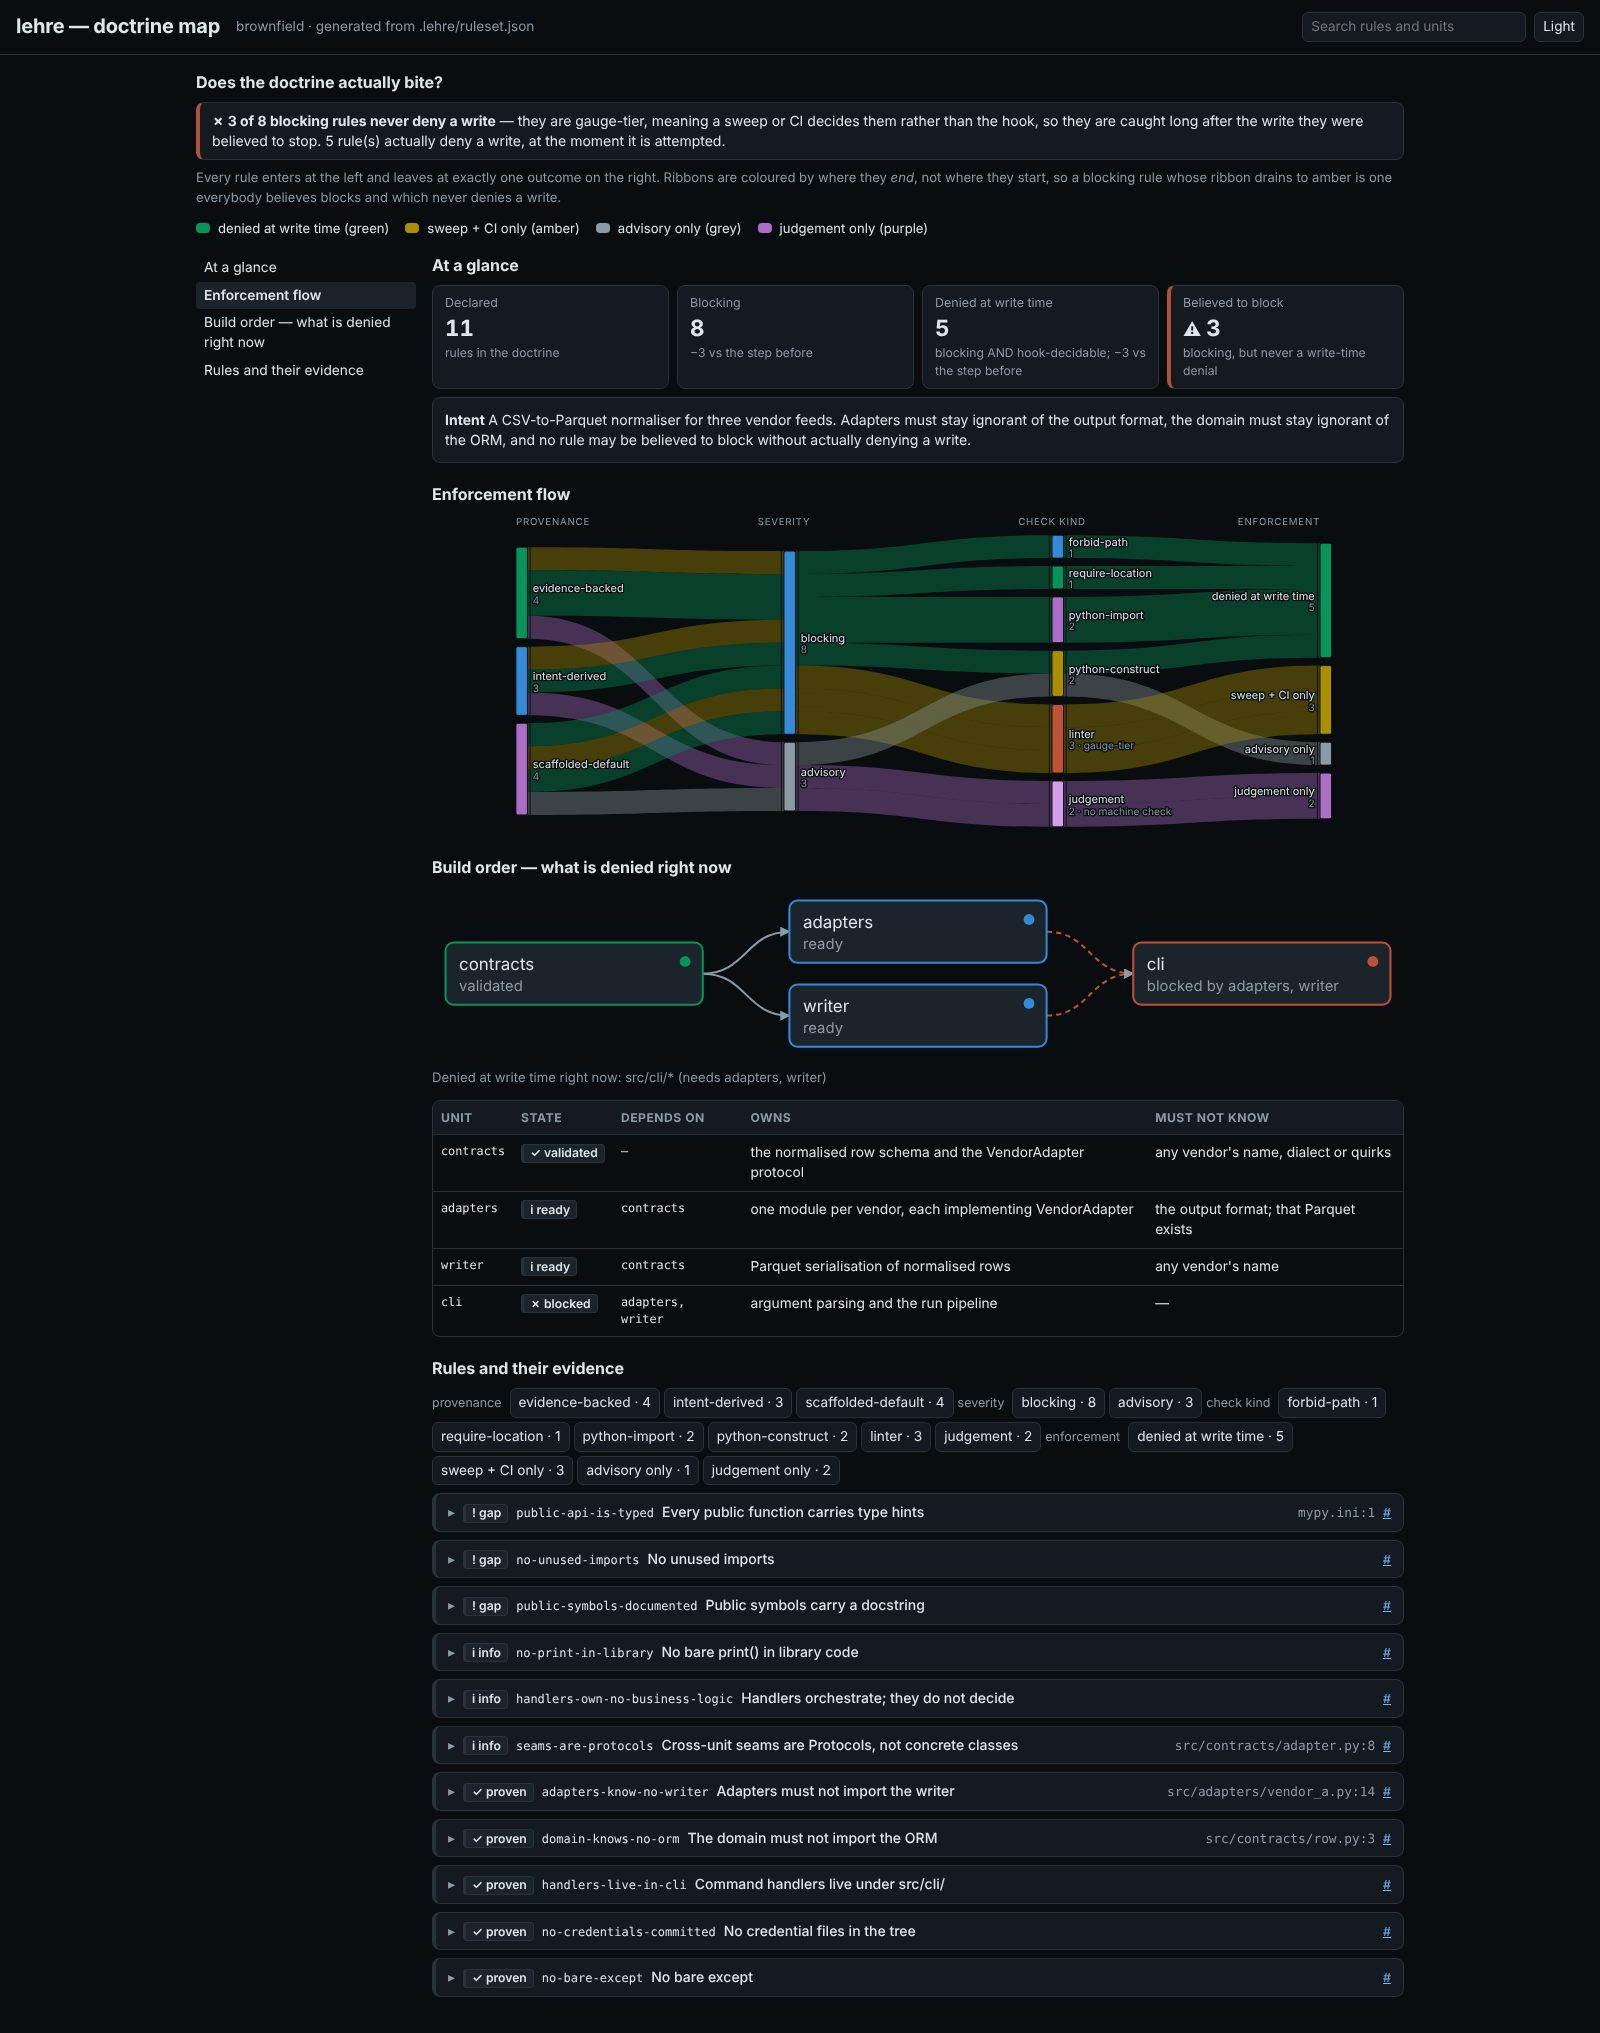
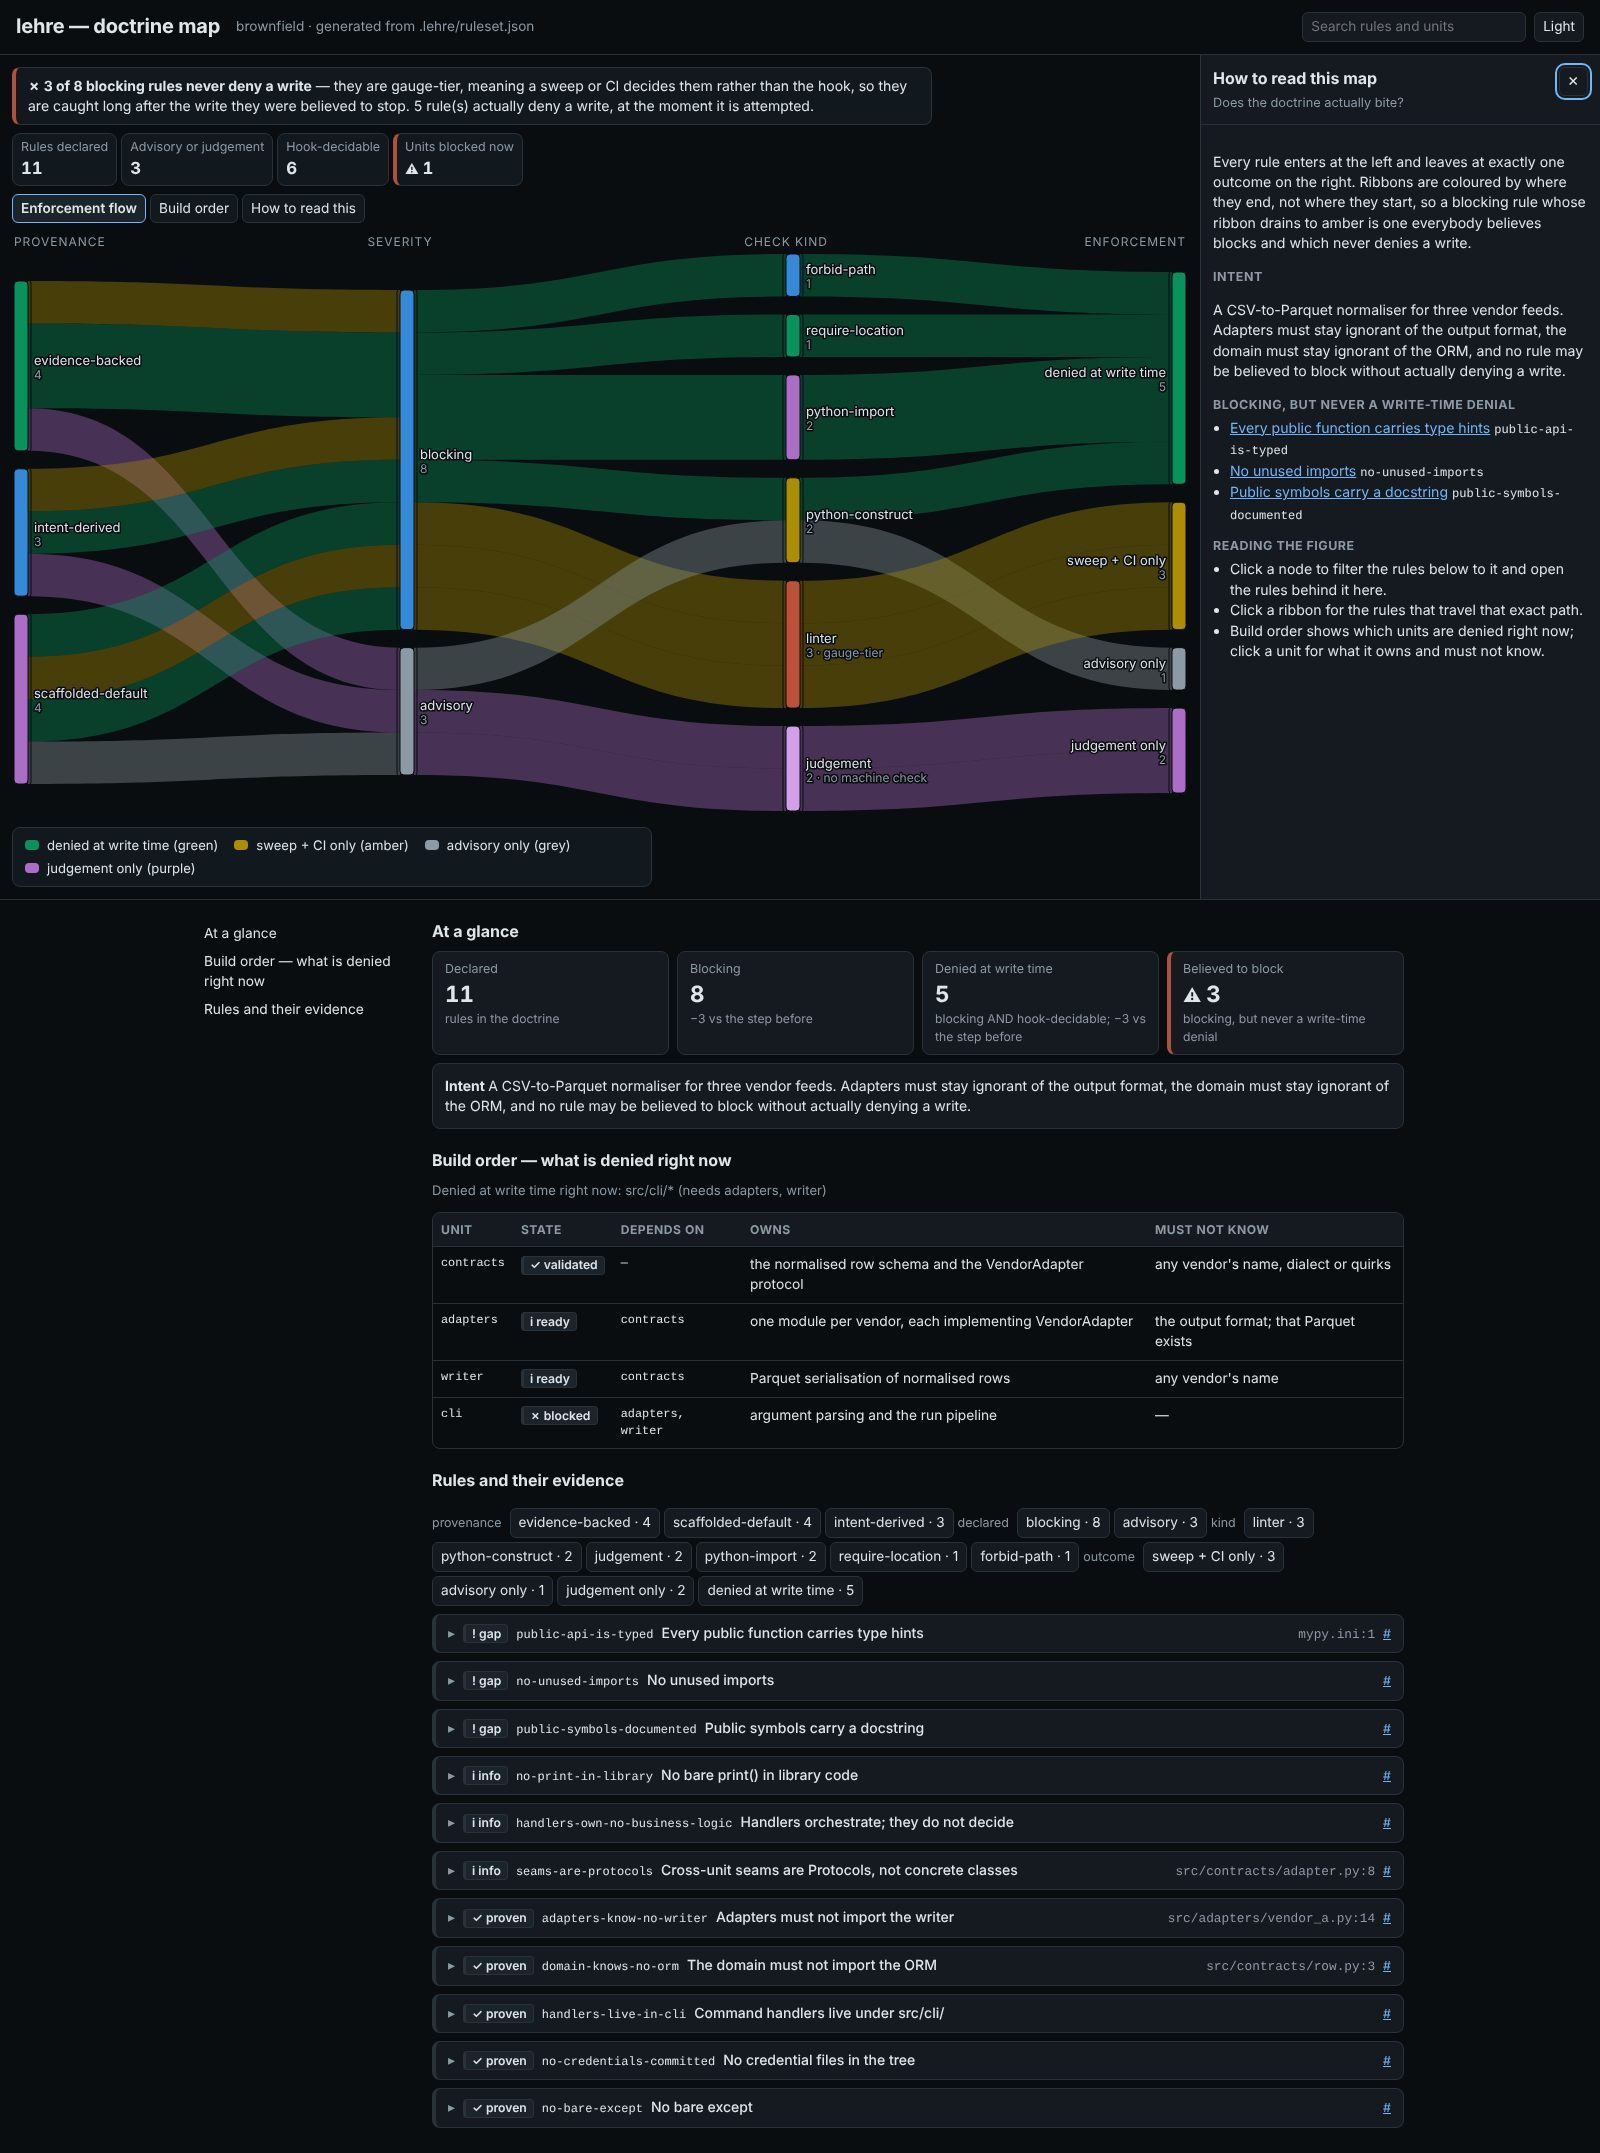
wip(viewers): figure-first (R9) migration in progress
Claude-Session: https://claude.ai/code/session_01T7ct7CVxAQqp3tqKbKtmYX

diff --git a/plugins/arbeitsplan/assets/run-viewer.html b/plugins/arbeitsplan/assets/run-viewer.html
@@ -33,7 +33,7 @@
   .mx .rowbg { fill: var(--rk-panel); stroke: var(--rk-border); stroke-width: 1; }
   .mx .row { cursor: pointer; }
   .mx .row:hover .rowbg { stroke: var(--rk-muted); }
-  .mx .row.landed .rowbg { stroke: var(--rk-ok); stroke-width: 3; }
+  .mx .row.landed .rowbg { stroke: var(--rk-ok); stroke-width: 3; fill: color-mix(in srgb, var(--rk-ok) 9%, var(--rk-panel)); }
   .mx .row.sel .rowbg { stroke: var(--rk-focus); stroke-width: 3; }
   .mx .row:focus { outline: none; }
   .mx .row:focus-visible .rowbg { stroke: var(--rk-focus); stroke-width: 3; }
@@ -323,7 +323,7 @@
         cg.addEventListener("mouseenter", tip); cg.addEventListener("mousemove", tip);
       });
       const ck = checksOf(x);
-      mk("text", { x: tx + 8, y: y + 24, class: "word g-" + (ck.ok === null ? "flat" : ck.ok ? "ok" : "bad") }, g, (ck.ok === null ? "–" : ck.ok ? "✓" : "✗") + " " + ck.text.split(" ")[0]);
+      mk("text", { x: tx + 8, y: y + 24, class: "word g-" + (ck.ok === null ? "flat" : ck.ok ? "ok" : "bad") }, g, ck.ok === null ? "– none" : (ck.ok ? "✓ " : "✗ ") + ck.text.split(" ")[0]);
       mk("text", { x: tx + 8, y: y + 44, class: "ev" }, g, ck.ok === null ? "no checks ran" : ck.text.replace(/^\S+ /, ""));
       const oos = (x.outOfScopeWrites || []).length;
       mk("text", { x: tx + TW + GAP + 8, y: y + 24, class: "word" }, g, String(x.filesTouched) + (x.filesTouched === 1 ? " file" : " files"));

diff --git a/plugins/zirkel/assets/branch-comparison-viewer.html b/plugins/zirkel/assets/branch-comparison-viewer.html
@@ -25,7 +25,6 @@
   .rk-figure .branch { cursor: pointer; }
   .rk-figure .branch .hit { rx: var(--radius-panel); }
   .rk-figure .branch rect { rx: var(--radius-sm); }
-  .rk-figure .branch .hit { rx: var(--radius-panel); }
   .rk-figure .branch:focus { outline: none; }
   .rk-figure .branch:focus-visible .hit { stroke: var(--rk-focus); stroke-width: 2; }
   .row { display: grid; grid-template-columns: minmax(0, 1fr) 72px; gap: var(--space-4); align-items: start; }
@@ -45,7 +44,7 @@
   .row .why dd { margin: 0; overflow-wrap: anywhere; }
   .rk-drawer-body p { margin: var(--space-1) 0; }
   .rk-drawer-body .scores { display: grid; grid-template-columns: max-content 1fr max-content; gap: var(--space-1) var(--space-3); align-items: center; margin: var(--space-1) 0; }
-  .rk-drawer-body .scores .bar { height: 10px; border-radius: 2px; }
+  .rk-drawer-body .scores .bar { height: 10px; border-radius: var(--radius-sm); }
   .rk-drawer-body .scores .bar.feas { background: var(--rk-ok); }
   .rk-drawer-body .scores .bar.imp { background: var(--rk-link); }
   .rk-drawer-body .scores .bar.risk { background: var(--rk-bad); }

diff --git a/plugins/zeugnis/assets/burndown-viewer.html b/plugins/zeugnis/assets/burndown-viewer.html
@@ -650,6 +650,9 @@
     const t = document.getElementById(decodeURIComponent(location.hash.slice(1)));
     if (t && t.tagName === "DETAILS") t.open = true;
     if (t && !/^module-/.test(t.id)) t.scrollIntoView();
+    // The browser scrolls a #module-… anchor to its row below the stage on load; the module is
+    // already selected in the drawer, so put the figure back on screen.
+    if (t && /^module-/.test(t.id)) { window.scrollTo(0, 0); window.addEventListener("load", () => window.scrollTo(0, 0)); }
   }
   // Esc lets go of the selected pass or module (the kit closes the drawer itself).
   document.addEventListener("keydown", (event) => {

diff --git a/plugins/lehre/assets/doctrine-viewer.html b/plugins/lehre/assets/doctrine-viewer.html
@@ -111,7 +111,7 @@
       <span class="key"><span class="swatch ready"></span>○ ready (blue)</span>
       <span class="key"><span class="swatch blocked"></span>✗ blocked by an unvalidated dependency (red)</span>
     </div>
-    <span class="rk-hint">click a node, ribbon or unit for the rules behind it · hover for a summary</span>
+    <span class="rk-hint">click a node, ribbon or unit · hover for a summary</span>
     <aside class="rk-drawer" id="rk-drawer" hidden aria-label="Details"></aside>
   </section>
   <div class="rk-wrap rk-below">

diff --git a/plugins/arbeitsplan/scripts/build_run_html.py b/plugins/arbeitsplan/scripts/build_run_html.py
@@ -174,6 +174,12 @@ def selftest() -> int:
     ok("no network fetches", 'src="http' not in html and 'href="http' not in html)
     ok("a static verdict element exists", 'class="verdict"' in html)
     ok("a static legend exists", 'class="legend ' in html or 'class="legend"' in html)
+    ok("the figure-first stage skeleton is in the page (R9)",
+       'id="rk-stage"' in html and "data-rk-figure" in html and 'id="rk-drawer"' in html
+       and 'class="legend rk-legend-float' in html and 'class="rk-hud-stats"' in html)
+    ok("the candidate x criterion matrix names every state in words, and rows open the drawer",
+       all(w in html for w in ("NOT met", "cannot judge", "not measured")) and 'role: "button"' in html
+       and "S.open(" in html and 'tabindex: "0"' in html)
     ok("no innerHTML assignment", "innerHTML" not in html and "insertAdjacentHTML" not in html)
     outcomes = {c["outcome"] for c in demo["candidates"]}
     ok("the demo shows an UNMEASURED candidate", "unmeasured" in outcomes,
